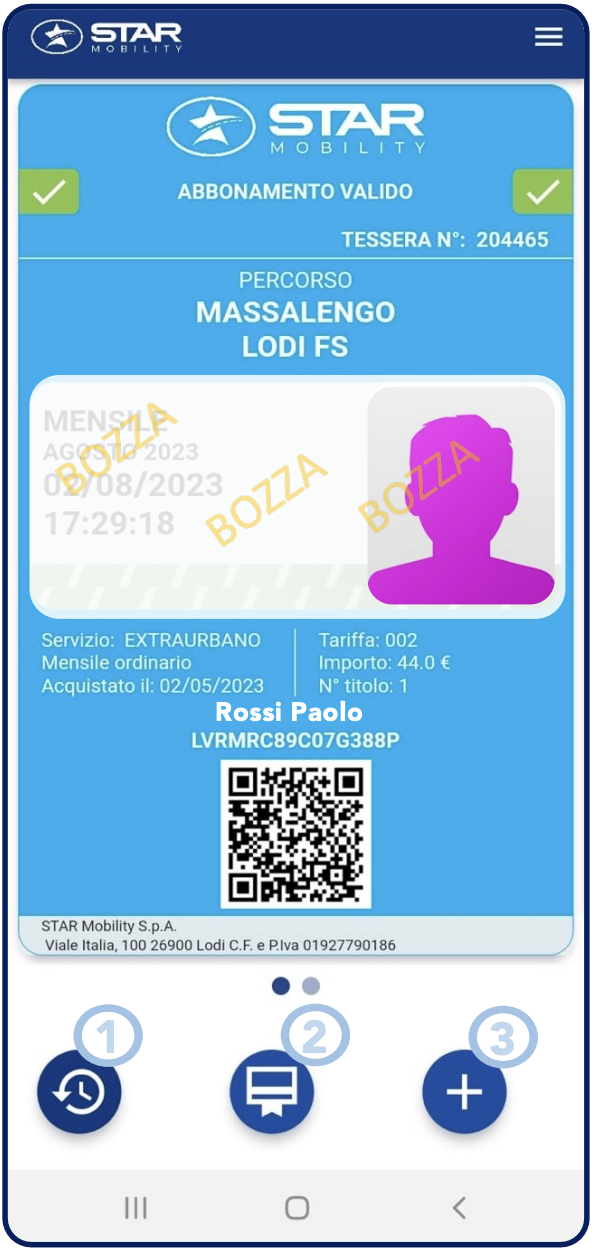
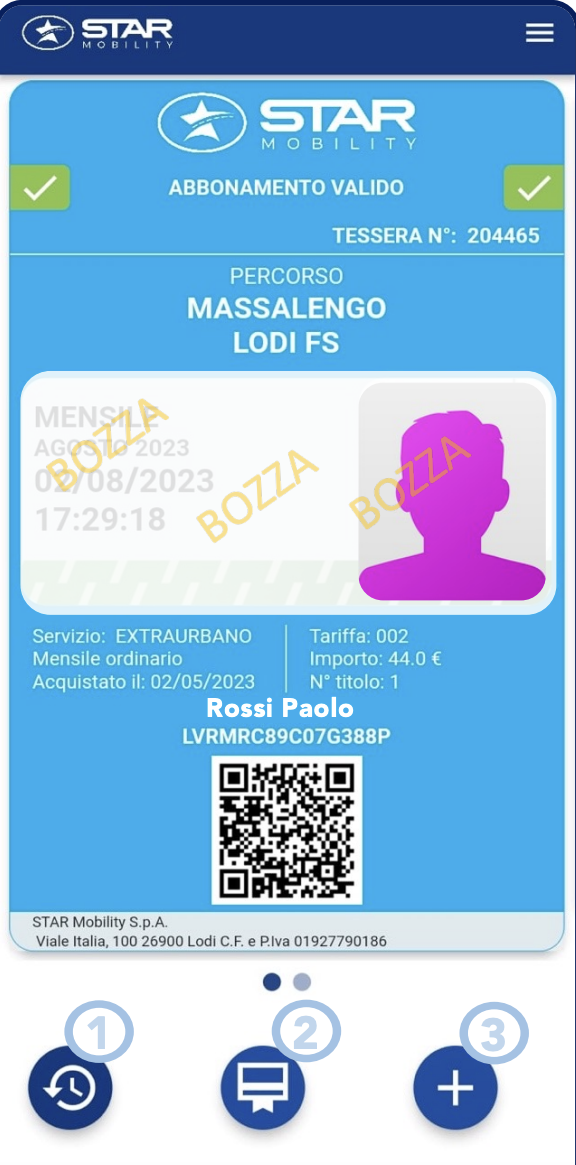
styles testing

diff --git a/style/index.css b/style/index.css
@@ -3,8 +3,11 @@
   --theme-color-darkblue: #102D69;
   --theme-color-lightblue: #00B0F0;
   --theme-color-yellow: #FFD200;
+  --padding-micro: 2px;
   --padding-min: 5px;
   --padding-medium: 10px;
+  --padding-max: 20px;
+  --padding-macro: 30px;
 }
 .vstack,
 body,
@@ -73,8 +76,12 @@ div:has(> label[for*="checkbox"]) {
   align-items: baseline;
 }
 body {
-  justify-content: space-between;
+  /*Remove thiss*/
+  opacity: 0.65;
   height: 100dvh;
+  background-image: url("../src/_reference/home.png");
+  background-repeat: no-repeat;
+  background-size: contain;
 }
 .shadow,
 nav,
@@ -82,43 +89,100 @@ nav,
   box-shadow: 0 2px 5px 0px rgba(0, 0, 0, 0.5);
 }
 nav {
-  width: 100dvw;
-  padding: var(--padding-medium);
-  align-items: center;
+  box-sizing: border-box;
+  max-width: 100%;
+  height: 6vh;
+  padding-block-start: 25px;
+  padding-inline: calc(2 * var(--padding-max));
+  align-items: start;
   justify-content: space-between;
   background-color: var(--theme-color-darkblue);
 }
 nav img {
-  height: 2.75vh;
-}
-/*WHY WOULD THEY MAKE THE MENU ICON SMALLER*/
-nav #menu-icon {
-  height: 2.25vh;
+  height: 60%;
 }
 #buttons {
   width: 100%;
   justify-content: space-around;
 }
+#pass-cards-carousel {
+  margin-block: var(--padding-medium);
+  margin-inline: var(--padding-max);
+}
 .pass-card {
+  font-family: system-ui;
+  --text-small: 10px;
+  --text-medium: 35px;
+  --text-large: 45px;
+  font-size: 16px;
   align-items: center;
   color: white;
   background-color: var(--theme-color-darkblue);
+  border-radius: 35px;
+}
+.pass-card p {
+  margin: 0;
 }
 .pass-card .logo {
-  width: 400px;
+  height: 102px;
+  margin-block: 17px;
 }
 .pass-card .validity-label-container {
+  align-items: center;
   justify-content: space-between;
   width: 100%;
+  margin-block: 7px;
 }
 .pass-card .validity-label-container::before,
 .pass-card .validity-label-container::after {
   content: '';
-  width: 60px;
-  background-image: url("../src/check.png");
+  width: 100px;
+  height: 75px;
   background-position: center center;
+  background-size: 53%;
   background-repeat: no-repeat;
   aspect-ratio: 1;
-  background-color: limegreen;
+}
+.pass-card .validity-label-container::before {
+  border-radius: 0 15px 15px 0;
+}
+.pass-card .validity-label-container::after {
+  border-radius: 15px 0 0 15px;
+}
+.pass-card .validity-label-container.valid-pass::before,
+.pass-card .validity-label-container.valid-pass::after {
+  background-image: url("../src/check.png");
+  background-color: #96C05B;
+}
+.pass-card .validity-label-container.expired-pass::before,
+.pass-card .validity-label-container.expired-pass::after {
+  background-image: url("../src/xmark.png");
+  background-color: #B20808;
+}
+.pass-card .validity-label {
+  font-size: var(--text-medium);
+  text-transform: uppercase;
+  margin: 0;
+}
+.pass-card .idcard-number {
+  text-transform: uppercase;
+  margin-block-start: 14px;
+  margin-inline-start: auto;
+  margin-inline-end: 50px;
+}
+.pass-card .divider {
+  width: 100%;
+}
+.pass-card .route-title {
+  text-transform: uppercase;
+  margin-block-start: 4px;
+}
+.pass-card .route {
+  font-size: var(--text-large);
+  text-transform: uppercase;
+  text-align: center;
+}
+.pass-card .idcard-container {
+  background-color: #E0EBEF;
 }
 /*# sourceMappingURL=index.css.map */

diff --git a/style/index.less b/style/index.less
@@ -1,9 +1,15 @@
 @import "generic";
 
 body {
+	/*Remove thiss*/
+	opacity: .65;
+
 	&:extend(.vstack);
-	justify-content: space-between;
 	height: 100dvh;
+
+	background-image: url("../src/_reference/home.png");
+	background-repeat: no-repeat;
+	background-size: contain;
 }
 
 .shadow {
@@ -13,18 +19,20 @@ body {
 nav {
 	&:extend(.hstack);
 	&:extend(.shadow);
-  	width: 100dvw;
-	padding: var(--padding-medium);
-	align-items: center;
+	box-sizing: border-box;
+  	max-width: 100%;
+	height: 6vh;
+	padding-block-start: 25px;
+	padding-inline: calc(2 * var(--padding-max));
+
+	align-items: start;
 	justify-content: space-between;
   	background-color: var(--theme-color-darkblue);
 }
 
 nav img {
-	height: 2.75vh;
+	height: 60%;
 }
-/*WHY WOULD THEY MAKE THE MENU ICON SMALLER*/
-nav #menu-icon { height: 2.25vh; }
 
 #buttons {
 	&:extend(.hstack);
@@ -36,29 +44,88 @@ nav #menu-icon { height: 2.25vh; }
 	&:extend(.shadow);
 }
 
+#pass-cards-carousel {
+	margin-block: var(--padding-medium);
+	margin-inline: var(--padding-max);
+}
+
 .pass-card {
+	font-family: system-ui;
+	--text-small: 10px;
+	--text-medium: 35px;
+	--text-large: 45px;
+	font-size: 16px;
+
 	&:extend(.vstack);
 	align-items: center;
 	color: white;
 	background-color: var(--theme-color-darkblue);
+	border-radius: 35px;
 }
+.pass-card p { margin: 0; }
 
 .pass-card .logo {
-	width: 400px;
+	height: 102px;
+	margin-block: 17px;
 }
 
 .pass-card .validity-label-container {
 	&:extend(.hstack);
+	align-items: center;
 	justify-content: space-between;
 	width: 100%;
+	margin-block: 7px;
 }
 .pass-card .validity-label-container::before,
 .pass-card .validity-label-container::after {
 	content: '';
-	width: 60px;
-	background-image: url("../src/check.png");
+	width: 100px;
+	height: 75px;
 	background-position: center center;
+	background-size: 53%;
 	background-repeat: no-repeat;
 	aspect-ratio: 1;
-	background-color: limegreen;
+}
+.pass-card .validity-label-container::before { border-radius: 0 15px 15px 0; }
+.pass-card .validity-label-container::after { border-radius: 15px 0 0 15px; }
+.pass-card .validity-label-container.valid-pass::before,
+.pass-card .validity-label-container.valid-pass::after {
+	background-image: url("../src/check.png");
+	background-color: #96C05B;
+}
+.pass-card .validity-label-container.expired-pass::before,
+.pass-card .validity-label-container.expired-pass::after {
+	background-image: url("../src/xmark.png");
+	background-color: #B20808;
+}
+.pass-card .validity-label {
+	font-size: var(--text-medium);
+	text-transform: uppercase;
+	margin: 0;
+}
+
+.pass-card .idcard-number {
+	text-transform: uppercase;
+	margin-block-start: 14px;
+	margin-inline-start: auto;
+	margin-inline-end: 50px;
+}
+
+.pass-card .divider {
+	width: 100%;
+}
+
+.pass-card .route-title {
+	text-transform: uppercase;
+	margin-block-start: 4px;
+}
+
+.pass-card .route {
+	font-size: var(--text-large);
+	text-transform: uppercase;
+	text-align: center;
+}
+
+.pass-card .idcard-container {
+	background-color: #E0EBEF;
 }

diff --git a/js/index.js b/js/index.js
@@ -16,9 +16,10 @@ function _new_passCard(card, pass, pass_number) {
     container.appendChild(logo);
     const validity_label_container = document.createElement('div');
     validity_label_container.classList.add('validity-label-container');
+    validity_label_container.classList.add(`${pass.expiry >= new Date(Date()) ? 'valid' : 'expired'}-pass`);
     const validity_label = document.createElement('p');
     validity_label.classList.add('validity-label');
-    validity_label.innerText = `abbonamento ${pass.expiry >= new Date() ? 'valido' : 'scaduto'}`;
+    validity_label.innerText = `abbonamento ${pass.expiry >= new Date(Date()) ? 'valido' : 'scaduto'}`;
     validity_label_container.appendChild(validity_label);
     container.appendChild(validity_label_container);
     const idcard_number = document.createElement('p');
@@ -112,6 +113,7 @@ function _new_passCard(card, pass, pass_number) {
     card_number.classList.add('details-number');
     card_number.innerText = `Nº titolo: ${pass_number}`;
     details_container.appendChild(card_number);
+    container.appendChild(details_container);
     //
     const holder_name = document.createElement('p');
     holder_name.classList.add('holder-name');
@@ -128,7 +130,7 @@ function _new_passCard(card, pass, pass_number) {
     return container;
 }
 function refresh_passes() {
-    const carousel = document.getElementById('passes-carousel');
+    const carousel = document.getElementById('pass-cards-carousel');
     // @ts-ignore
     carousel.innerHTML = '';
     let counter = 0;

diff --git a/js/index.ts b/js/index.ts
@@ -24,10 +24,11 @@ function _new_passCard(card:IDCard, pass:TravelPass, pass_number:number):HTMLEle
 
     const validity_label_container = document.createElement('div')
     validity_label_container.classList.add('validity-label-container')
+    validity_label_container.classList.add(`${pass.expiry >= new Date(Date()) ? 'valid' : 'expired'}-pass`)
 
     const validity_label = document.createElement('p')
     validity_label.classList.add('validity-label')
-    validity_label.innerText = `abbonamento ${pass.expiry >= new Date() ? 'valido' : 'scaduto'}`
+    validity_label.innerText = `abbonamento ${pass.expiry >= new Date(Date()) ? 'valido' : 'scaduto'}`
     validity_label_container.appendChild(validity_label)
 
     container.appendChild(validity_label_container)
@@ -144,6 +145,8 @@ function _new_passCard(card:IDCard, pass:TravelPass, pass_number:number):HTMLEle
         card_number.classList.add('details-number')
         card_number.innerText = `Nº titolo: ${pass_number}`
         details_container.appendChild(card_number)
+
+        container.appendChild(details_container)
         //
 
     const holder_name = document.createElement('p')
@@ -165,7 +168,7 @@ function _new_passCard(card:IDCard, pass:TravelPass, pass_number:number):HTMLEle
 }
 
 function refresh_passes() {
-    const carousel = document.getElementById('passes-carousel')
+    const carousel = document.getElementById('pass-cards-carousel')
     // @ts-ignore
     carousel.innerHTML = ''
     let counter:number = 0

diff --git a/index.html b/index.html
@@ -3,6 +3,7 @@
     <head>
         <meta charset="UTF-8">
         <meta name="theme-color" content="#102D69">
+        <meta name="viewport" content="width=device-width, initial-scale=1.0">
         <title>My STAR Mobility SIMULATOR</title>
 
         <link rel="stylesheet" href="style/reset.css">
@@ -15,7 +16,7 @@
             <img id="menu-icon" src="./src/hamburger.png" alt="Menu">
         </nav>
 
-        <div id="passes-carousel"></div>
+        <div id="pass-cards-carousel"></div>
 
         <div id="buttons">
             <button id="archive-button"></button>

diff --git a/style/addIDCard.css b/style/addIDCard.css
@@ -3,8 +3,11 @@
   --theme-color-darkblue: #102D69;
   --theme-color-lightblue: #00B0F0;
   --theme-color-yellow: #FFD200;
+  --padding-micro: 2px;
   --padding-min: 5px;
   --padding-medium: 10px;
+  --padding-max: 20px;
+  --padding-macro: 30px;
 }
 .vstack,
 body {

diff --git a/style/addTravelPass.css b/style/addTravelPass.css
@@ -3,8 +3,11 @@
   --theme-color-darkblue: #102D69;
   --theme-color-lightblue: #00B0F0;
   --theme-color-yellow: #FFD200;
+  --padding-micro: 2px;
   --padding-min: 5px;
   --padding-medium: 10px;
+  --padding-max: 20px;
+  --padding-macro: 30px;
 }
 .vstack,
 body {

diff --git a/style/generic.less b/style/generic.less
@@ -6,8 +6,11 @@
 	--theme-color-lightblue: #00B0F0;
 	--theme-color-yellow: #FFD200;
 
+	--padding-micro: 2px;
 	--padding-min: 5px;
 	--padding-medium: 10px;
+	--padding-max: 20px;
+	--padding-macro: 30px;
 }
 
 .vstack {
